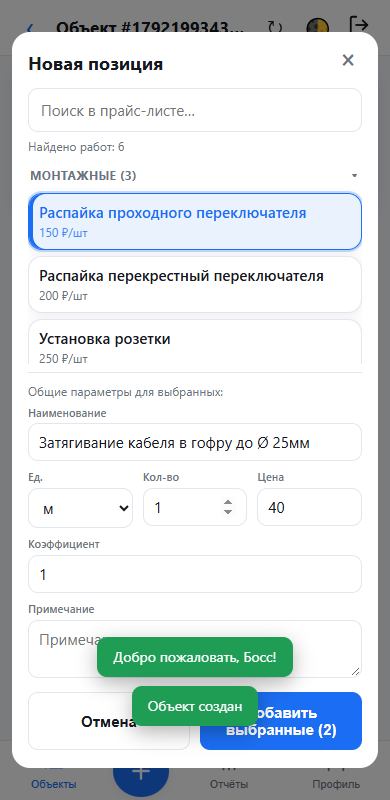
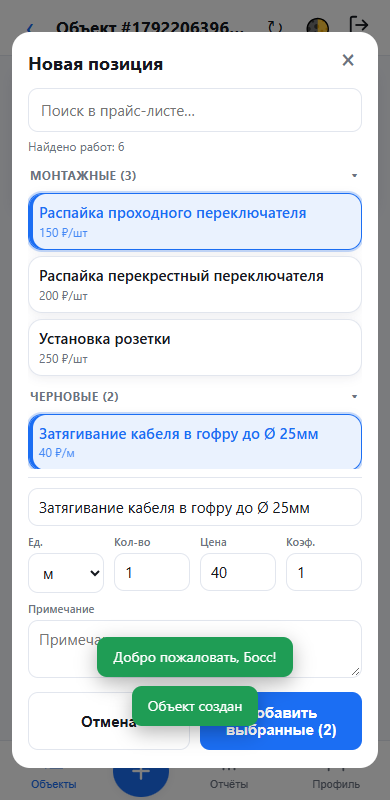
ux: компактный подвал модалки калькулятора (Коэф. в ряду с ценами, без лишних подписей), min-height списка 260px

Changed region(s): [[0.0615, 0.4688, 0.9231, 0.75], [0.4308, 0.0312, 0.5846, 0.0625]]

diff --git a/public/js/features/objectCard.js b/public/js/features/objectCard.js
@@ -354,7 +354,7 @@ window.ObjectCard = (function () {
     var editing = !!line;
 
     var searchI = U.el('input', { class: 'input', placeholder: 'Поиск в прайс-листе…' });
-    var listBox = U.el('div', { class: 'pricelist', style: { flex: '1 1 auto', minHeight: '150px', overflowY: 'auto', marginBottom: '0' } });
+    var listBox = U.el('div', { class: 'pricelist', style: { flex: '1 1 auto', minHeight: '260px', overflowY: 'auto', marginBottom: '0' } });
     var nameI = U.el('input', { class: 'input', placeholder: 'Наименование' });
     // Ед. изм. — компактный выпадающий список (собираем уникальные значения из прайса)
     var unitI = U.el('select', { class: 'select' });
@@ -486,20 +486,22 @@ window.ObjectCard = (function () {
     }
 
     // Шапка (фиксированная): заголовок + поиск. Подвал (фиксированный):
-    // «Общие параметры» + поля + кнопки. Между ними прокручивается только список прайса.
+    // поля + кнопки. Между ними прокручивается только список прайса.
+    // Подвал компактный: без шапки «Общие параметры…», без подписи «Наименование»
+    // (placeholder достаточно), «Коэф.» — в одном ряду с Ед./Кол-во/Цена (4 колонки),
+    // чтобы список получал максимум места (на больших экранах ~3.5–4 работы видны).
     var header = U.el('div', { class: 'calc-modal__head' }, [
       U.el('div', { class: 'modal__title', text: editing ? 'Редактировать позицию' : 'Новая позиция' }),
       searchI
     ]);
     var footer = U.el('div', { class: 'calc-modal__foot' }, [
-      U.el('div', { class: 'card__sub', style: { marginBottom: '4px' }, text: 'Общие параметры для выбранных:' }),
-      U.el('div', { class: 'field field--sm' }, [U.el('label', { class: 'field__label', text: 'Наименование' }), nameI]),
+      U.el('div', { class: 'field field--sm' }, [nameI]),
       U.el('div', { style: { display: 'flex', gap: '10px' } }, [
         U.el('div', { class: 'field field--sm', style: { flex: '1' } }, [U.el('label', { class: 'field__label', text: 'Ед.' }), unitI]),
         U.el('div', { class: 'field field--sm', style: { flex: '1' } }, [U.el('label', { class: 'field__label', text: 'Кол-во' }), qtyI]),
-        U.el('div', { class: 'field field--sm', style: { flex: '1' } }, [U.el('label', { class: 'field__label', text: 'Цена' }), priceI])
+        U.el('div', { class: 'field field--sm', style: { flex: '1' } }, [U.el('label', { class: 'field__label', text: 'Цена' }), priceI]),
+        U.el('div', { class: 'field field--sm', style: { flex: '1' } }, [U.el('label', { class: 'field__label', text: 'Коэф.' }), coefI])
       ]),
-      U.el('div', { class: 'field field--sm' }, [U.el('label', { class: 'field__label', text: 'Коэффициент' }), coefI]),
       U.el('div', { class: 'field field--sm' }, [U.el('label', { class: 'field__label', text: 'Примечание' }), noteI]),
       U.el('div', { class: 'row' }, [
         U.el('button', { class: 'btn btn--ghost', text: 'Отмена', onclick: function () { m.close(); } }),
